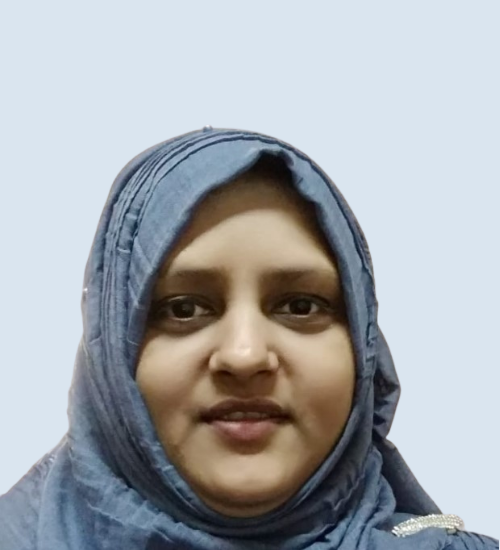
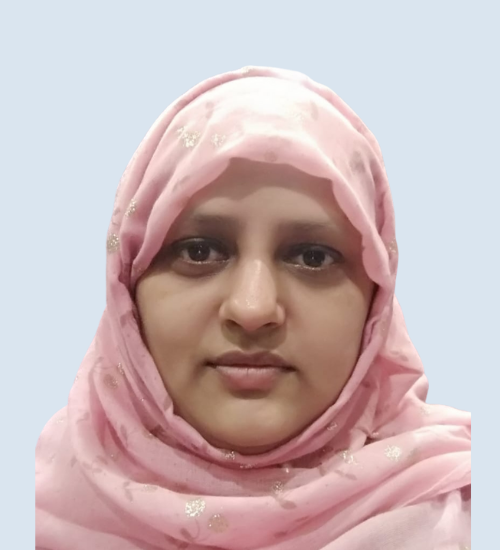
sana maam photo

diff --git a/team-2021.html b/team-2021.html
@@ -190,7 +190,7 @@
 									<!-- <a href="https://www.linkedin.com/in/grejojoby/"> -->
 									<div class="team position-relative d-block text-center">
 										<div class="image position-relative d-block overflow-hidden">
-											<img src="assets/images/sana.png" class="img-fluid rounded" alt="">
+											<img src="assets/images/sana.webp" class="img-fluid rounded" alt="">
 											<!-- <div class="overlay rounded bg-dark"></div> -->
 										</div>
 										<div
@@ -704,7 +704,7 @@
 									</div>
 									<div
 										class="content py-2 member-position bg-white border-bottom overflow-hidden rounded d-inline-block">
-										<h4 class="title mb-0 teamNameLink">Rhea D'Souza</h4>
+										<h4 class="title mb-0 teamNameLink">Rhea Dsouza</h4>
 										<small class="text-muted">Member</small>
 									</div>
 
